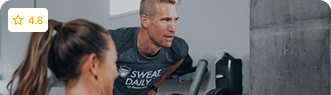
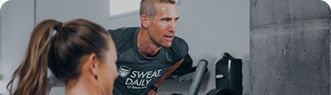
replaced class images

Changed region(s): [[0.0, 0.0842, 0.1511, 0.3368]]

diff --git a/src/screens/HomeScreen.js b/src/screens/HomeScreen.js
@@ -24,16 +24,16 @@ export default function HomeScreen({ navigation }) {
       time: '5:30 PM',
       instructor: 'Coach Raymond',
       location: 'SGW – Le Gym – Gymnasium',
-      image: require('../../assets/images/Strengthtrainingclass.png')
-      /*rating: '4.8'*/
+      image: require('../../assets/images/Strengthtrainingclass.png'),
+      rating: '4.8'
     }, {
       id: '2',
       title: 'YOGA CLASS',
       time: '5:30 PM',
       instructor: 'Coach Ashley',
       location: 'SGW – Le Gym – Studio',
-      image: require('../../assets/images/Yogaclass.png')
-      /*rating: '4.8'*/
+      image: require('../../assets/images/Yogaclass.png'),
+      rating: '4.8'
     }
   ];
 
@@ -112,10 +112,10 @@ export default function HomeScreen({ navigation }) {
                 resizeMode="cover"
               />
               <View style={styles.classInfo}>
-                {/*
+                
                 <View style={styles.classRatingContainer}>
                   <Text style={styles.classRating}>{classItem.rating}</Text>
-                </View>*/}
+                </View>
                 <Text style={styles.classTitle}>{classItem.title}</Text>
                 <View style={styles.classMetaContainer}>
                   <View style={styles.classTimeBadge}>
@@ -254,6 +254,7 @@ const styles = StyleSheet.create({
   classImage: {
     borderTopLeftRadius: 12,
     borderTopRightRadius: 12,
+    width:'100%'
   },
   classTitle: {
     fontSize: 16,
@@ -320,7 +321,7 @@ const styles = StyleSheet.create({
     fontSize: 14,
     fontWeight: '500',
   },
-   /*
+   
   classRatingContainer: {
     position: 'absolute',
     right: 0,
@@ -333,5 +334,5 @@ const styles = StyleSheet.create({
     color: 'white',
     fontWeight: 'bold',
     fontSize: 12,
-  },*/
+  },
 });

diff --git a/src/screens/ChatScreen.js b/src/screens/ChatScreen.js
@@ -281,7 +281,7 @@ const styles = StyleSheet.create({
       color: '#e1e1e1',
     },
     messagesContainer: {
-        flex: 1,
+        flexGrow: 1,
         padding: 16
     },
     messageWrapper: {
